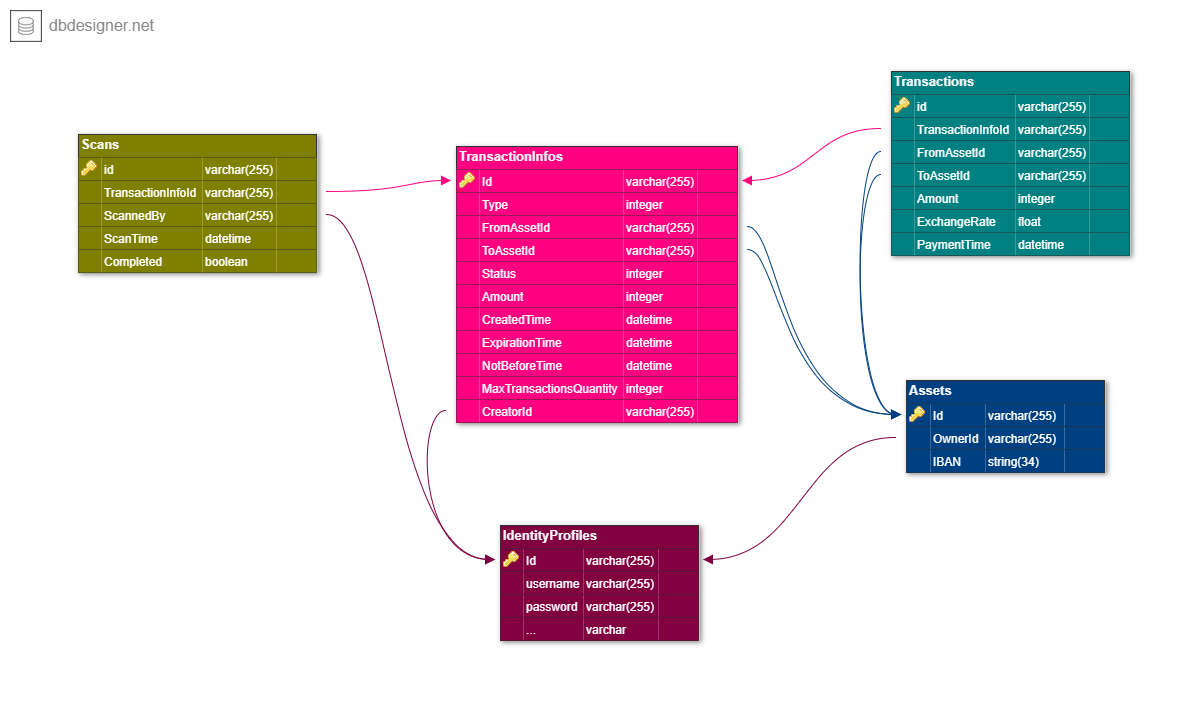
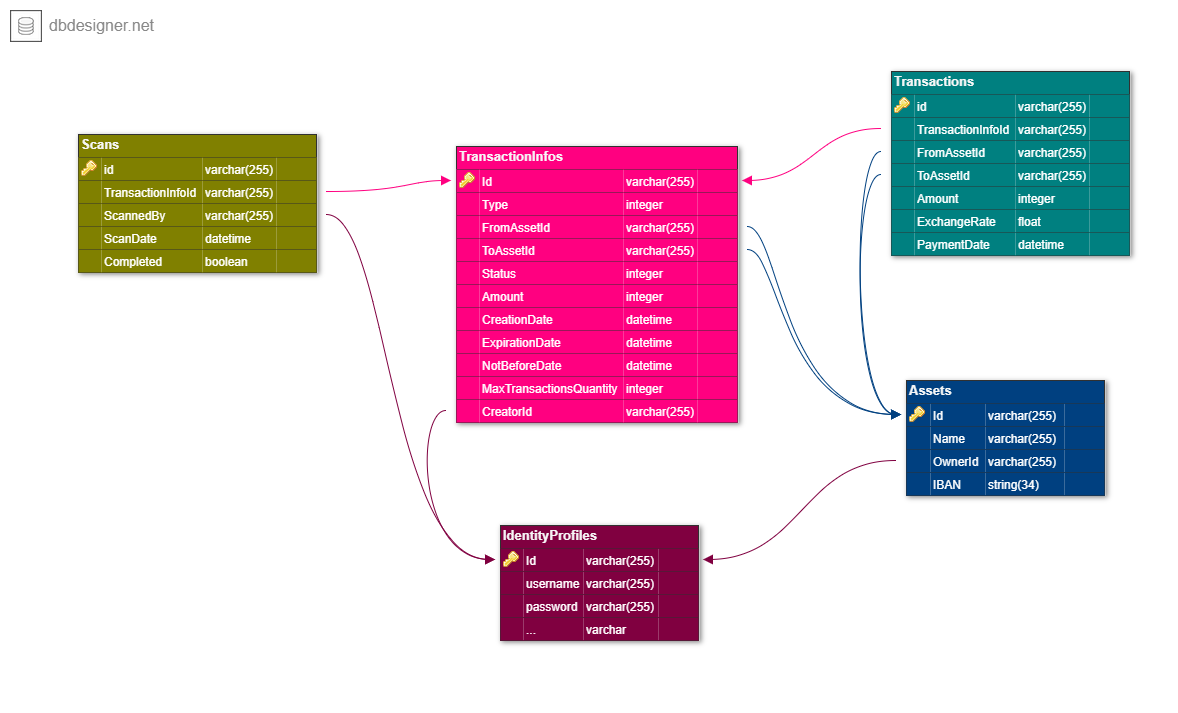
Starting developing server

diff --git a/QRPaymentSystem.Server/QRPaymentSystem.Server.Api/Startup.cs b/QRPaymentSystem.Server/QRPaymentSystem.Server.Api/Startup.cs
@@ -1,15 +1,18 @@
 using System;
-using System.Collections.Generic;
-using System.Linq;
-using System.Threading.Tasks;
+using System.Text;
+using Microsoft.AspNetCore.Authentication.JwtBearer;
 using Microsoft.AspNetCore.Builder;
 using Microsoft.AspNetCore.Hosting;
-using Microsoft.AspNetCore.HttpsPolicy;
-using Microsoft.AspNetCore.Mvc;
+using Microsoft.AspNetCore.Identity;
+using Microsoft.EntityFrameworkCore;
 using Microsoft.Extensions.Configuration;
 using Microsoft.Extensions.DependencyInjection;
 using Microsoft.Extensions.Hosting;
-using Microsoft.Extensions.Logging;
+using Microsoft.IdentityModel.Tokens;
+using QRPaymentSystem.Server.Api.Data;
+using QRPaymentSystem.Server.Api.Models;
+using QRPaymentSystem.Server.Api.Models.DbModels;
+using QRPaymentSystem.Server.Api.Services;
 
 namespace QRPaymentSystem.Server.Api
 {
@@ -25,7 +28,37 @@ namespace QRPaymentSystem.Server.Api
         // This method gets called by the runtime. Use this method to add services to the container.
         public void ConfigureServices(IServiceCollection services)
         {
+
+            services.AddDbContext<QRPaymentSystemDbContext>(options =>
+                options.UseSqlServer(Configuration.GetConnectionString("DefaultConnection")));
+
+            services.AddIdentityCore<IdentityProfile>()
+                .AddUserManager<UserManager<IdentityProfile>>()
+                .AddEntityFrameworkStores<QRPaymentSystemDbContext>();
+
+            services.AddAuthentication(opt =>
+            {
+                opt.DefaultAuthenticateScheme = JwtBearerDefaults.AuthenticationScheme;
+                opt.DefaultChallengeScheme = JwtBearerDefaults.AuthenticationScheme;
+            })
+            .AddJwtBearer(options =>
+            {
+                options.TokenValidationParameters = new TokenValidationParameters
+                {
+                    //ValidateIssuer = true,
+                    //ValidateAudience = true,
+                    ValidateLifetime = true,
+                    ValidateIssuerSigningKey = true,
+
+                    //ValidIssuer = "https://localhost:4200",
+                    //ValidAudience = "https://localhost:5001",
+                    IssuerSigningKey = new SymmetricSecurityKey(Encoding.UTF8.GetBytes("SuperSecretKey#234@"))
+                };
+            });
+
             services.AddControllers();
+
+            services.AddScoped<AuthService>();
         }
 
         // This method gets called by the runtime. Use this method to configure the HTTP request pipeline.
@@ -40,6 +73,7 @@ namespace QRPaymentSystem.Server.Api
 
             app.UseRouting();
 
+            app.UseAuthentication();
             app.UseAuthorization();
 
             app.UseEndpoints(endpoints =>

diff --git a/QRPaymentSystem.Server/QRPaymentSystem.Server.Api/Models/DbModels/TransactionInfo.cs b/QRPaymentSystem.Server/QRPaymentSystem.Server.Api/Models/DbModels/TransactionInfo.cs
@@ -1,0 +1,33 @@
+using System;
+using System.Collections.Generic;
+using System.ComponentModel.DataAnnotations.Schema;
+using QRPaymentSystem.Server.Api.Models.Enums;
+
+namespace QRPaymentSystem.Server.Api.Models.DbModels
+{
+    public class TransactionInfo : Entity
+    {
+        public TransactionInfoType Type { get; set; }
+
+        [ForeignKey("FromAssetId")]
+        public virtual Asset FromAsset { get; set; }
+
+        [ForeignKey("ToAssetId")]
+        public virtual Asset ToAsset { get; set; }
+
+        public TransactionStatus Status { get; set; }
+        public int Amount { get; set; }
+
+        public DateTime CreationDate { get; set; }
+        public DateTime ExpirationDate { get; set; }
+        public DateTime NotBeforeDate { get; set; }
+
+        public int MaxTransactionsQuantity { get; set; }
+
+        [ForeignKey("CreatorId")]
+        public virtual IdentityProfile Creator { get; set; }
+
+        public virtual IList<Transaction> Transactions { get; set; }
+        public virtual IList<Scan> Scans { get; set; }
+    }
+}

diff --git a/QRPaymentSystem.Server/QRPaymentSystem.Server.Api/Data/QrPaymentSystemDbContext.cs b/QRPaymentSystem.Server/QRPaymentSystem.Server.Api/Data/QrPaymentSystemDbContext.cs
@@ -5,14 +5,18 @@ using System.Threading.Tasks;
 using Microsoft.AspNetCore.Identity.EntityFrameworkCore;
 using Microsoft.EntityFrameworkCore;
 using QRPaymentSystem.Server.Api.Models;
+using QRPaymentSystem.Server.Api.Models.DbModels;
 
 namespace QRPaymentSystem.Server.Api.Data
 {
-    public class QrPaymentSystemDbContext : IdentityDbContext<IdentityProfile>
+    public class QRPaymentSystemDbContext : IdentityDbContext<IdentityProfile>
     {
-        public QrPaymentSystemDbContext(DbContextOptions<QrPaymentSystemDbContext> options) : base(options)
+        public QRPaymentSystemDbContext(DbContextOptions<QRPaymentSystemDbContext> options) : base(options)
         { }
 
         public DbSet<Asset> Assets { get; set; }
+        public DbSet<Scan> Scans { get; set; }
+        public DbSet<Transaction> Transactions { get; set; }
+        public DbSet<TransactionInfo> TransactionInfos { get; set; }
     }
 }

diff --git a/QRPaymentSystem.Server/QRPaymentSystem.Server.Api/Models/DbModels/Transaction.cs b/QRPaymentSystem.Server/QRPaymentSystem.Server.Api/Models/DbModels/Transaction.cs
@@ -1,0 +1,31 @@
+using System;
+using System.ComponentModel.DataAnnotations.Schema;
+using QRPaymentSystem.Server.Api.Models.Enums;
+
+namespace QRPaymentSystem.Server.Api.Models.DbModels
+{
+    public class Transaction : Entity
+    {
+        public Transaction()
+        {
+            Id = Guid.NewGuid();
+            PaymentDate = DateTime.UtcNow;
+        }
+
+        [ForeignKey("TransactionInfoId")]
+        public virtual TransactionInfo TransactionInfo { get; set; }
+        
+        [ForeignKey("FromAssetId")]
+        public virtual Asset FromAsset { get; set; }
+
+        [ForeignKey("ToAssetId")]
+        public virtual Asset ToAsset { get; set; }
+
+        public int Amount { get; set; }
+        public double ExchangeRate { get; set; }
+
+        public DateTime PaymentDate { get; set; }
+        public TransactionStatus Status { get; set; }
+
+    }
+}

diff --git a/QRPaymentSystem.Server/QRPaymentSystem.Server.Api/Models/DbModels/Asset.cs b/QRPaymentSystem.Server/QRPaymentSystem.Server.Api/Models/DbModels/Asset.cs
@@ -1,9 +1,8 @@
-using System;
-using System.Collections.Generic;
+using System.Collections.Generic;
 using System.ComponentModel.DataAnnotations;
 using System.ComponentModel.DataAnnotations.Schema;
 
-namespace QRPaymentSystem.Server.Api.Models
+namespace QRPaymentSystem.Server.Api.Models.DbModels
 {
     public class Asset : Entity
     {
@@ -18,6 +17,12 @@ namespace QRPaymentSystem.Server.Api.Models
         [ForeignKey("OwnerId")]
         public IdentityProfile Owner { get; set; }
 
-        public IList<Transaction> Transactions { get; set; }
+        [MaxLength(34)]
+        public string IBAN { get; set; }
+
+        public string Currency { get; set; }
+
+        public virtual IList<Transaction> Transactions { get; set; }
+        public virtual IList<TransactionInfo> TransactionInfos { get; set; }
     }
 }

diff --git a/QRPaymentSystem.Server/QRPaymentSystem.Server.Api/Models/DbModels/IdentityProfile.cs b/QRPaymentSystem.Server/QRPaymentSystem.Server.Api/Models/DbModels/IdentityProfile.cs
@@ -1,11 +1,8 @@
 using System;
 using System.Collections.Generic;
-using System.ComponentModel.DataAnnotations.Schema;
-using System.Linq;
-using System.Threading.Tasks;
 using Microsoft.AspNetCore.Identity;
 
-namespace QRPaymentSystem.Server.Api.Models
+namespace QRPaymentSystem.Server.Api.Models.DbModels
 {
     public class IdentityProfile : IdentityUser
     { 
@@ -20,6 +17,8 @@ namespace QRPaymentSystem.Server.Api.Models
         public string LastName { get; set; }
         public DateTime? Birthday { get; set; }
 
-        public IList<Asset> Assets { get; set; }
+        public virtual IList<Asset> Assets { get; set; }
+        public virtual IList<Scan> Scans { get; set; }
+        public virtual IList<TransactionInfo> CreatedTransactionInfos { get; set; }
     }
 }

diff --git a/QRPaymentSystem.Server/QRPaymentSystem.Server.Api/Controllers/AuthController.cs b/QRPaymentSystem.Server/QRPaymentSystem.Server.Api/Controllers/AuthController.cs
@@ -1,0 +1,26 @@
+using System;
+using System.Collections.Generic;
+using System.Linq;
+using System.Threading.Tasks;
+using Microsoft.AspNetCore.Http;
+using Microsoft.AspNetCore.Mvc;
+using QRPaymentSystem.Server.Api.Models.ApiModels;
+
+namespace QRPaymentSystem.Server.Api.Controllers
+{
+    [Route("api/[controller]")]
+    [ApiController]
+    public class AuthController : ControllerBase
+    {
+        [HttpPost("login")]
+        public IActionResult Login([FromBody] LoginModel userCredentials)
+        {
+            if (User == null)
+            {
+                return BadRequest("Invalid request");
+            }
+
+
+        }
+    }
+}

diff --git a/QRPaymentSystem.Server/QRPaymentSystem.Server.Api/Models/DbModels/Scan.cs b/QRPaymentSystem.Server/QRPaymentSystem.Server.Api/Models/DbModels/Scan.cs
@@ -1,0 +1,17 @@
+using System;
+using System.ComponentModel.DataAnnotations.Schema;
+
+namespace QRPaymentSystem.Server.Api.Models.DbModels
+{
+    public class Scan : Entity
+    {
+        [ForeignKey("TransactionInfoId")]
+        public virtual TransactionInfo TransactionInfo { get; set; }
+
+        [ForeignKey("ScannedById")]
+        public virtual IdentityProfile ScannedBy { get; set; }
+
+        public DateTime ScanDate { get; set; }
+        public bool Completed { get; set; }
+    }
+}

diff --git a/QRPaymentSystem.Server/QRPaymentSystem.Server.Api/Models/ApiModels/LoginModel.cs b/QRPaymentSystem.Server/QRPaymentSystem.Server.Api/Models/ApiModels/LoginModel.cs
@@ -1,0 +1,10 @@
+using System;
+
+namespace QRPaymentSystem.Server.Api.Models.ApiModels
+{
+    public class LoginModel
+    {
+        public string Username { get; set; }
+        public string Password { get; set; }
+    }
+}

diff --git a/QRPaymentSystem.Server/QRPaymentSystem.Server.Api/Models/Enums/TransactionStatus.cs b/QRPaymentSystem.Server/QRPaymentSystem.Server.Api/Models/Enums/TransactionStatus.cs
@@ -1,0 +1,11 @@
+namespace QRPaymentSystem.Server.Api.Models.Enums
+{
+    public enum TransactionStatus
+    {
+        Created,
+        Shared,
+        Scanned,
+        Completed,
+        Rejected
+    }
+}

diff --git a/QRPaymentSystem.Server/QRPaymentSystem.Server.Api/Models/DbModels/Entity.cs b/QRPaymentSystem.Server/QRPaymentSystem.Server.Api/Models/DbModels/Entity.cs
@@ -1,7 +1,7 @@
 using System;
 using System.ComponentModel.DataAnnotations;
 
-namespace QRPaymentSystem.Server.Api.Models
+namespace QRPaymentSystem.Server.Api.Models.DbModels
 {
     public class Entity
     {

diff --git a/QRPaymentSystem.Server/QRPaymentSystem.Server.Api/Services/AuthService.cs b/QRPaymentSystem.Server/QRPaymentSystem.Server.Api/Services/AuthService.cs
@@ -5,7 +5,8 @@ using System.Threading.Tasks;
 
 namespace QRPaymentSystem.Server.Api.Services
 {
-    public class JwtService
+    public class AuthService
     {
+
     }
 }
